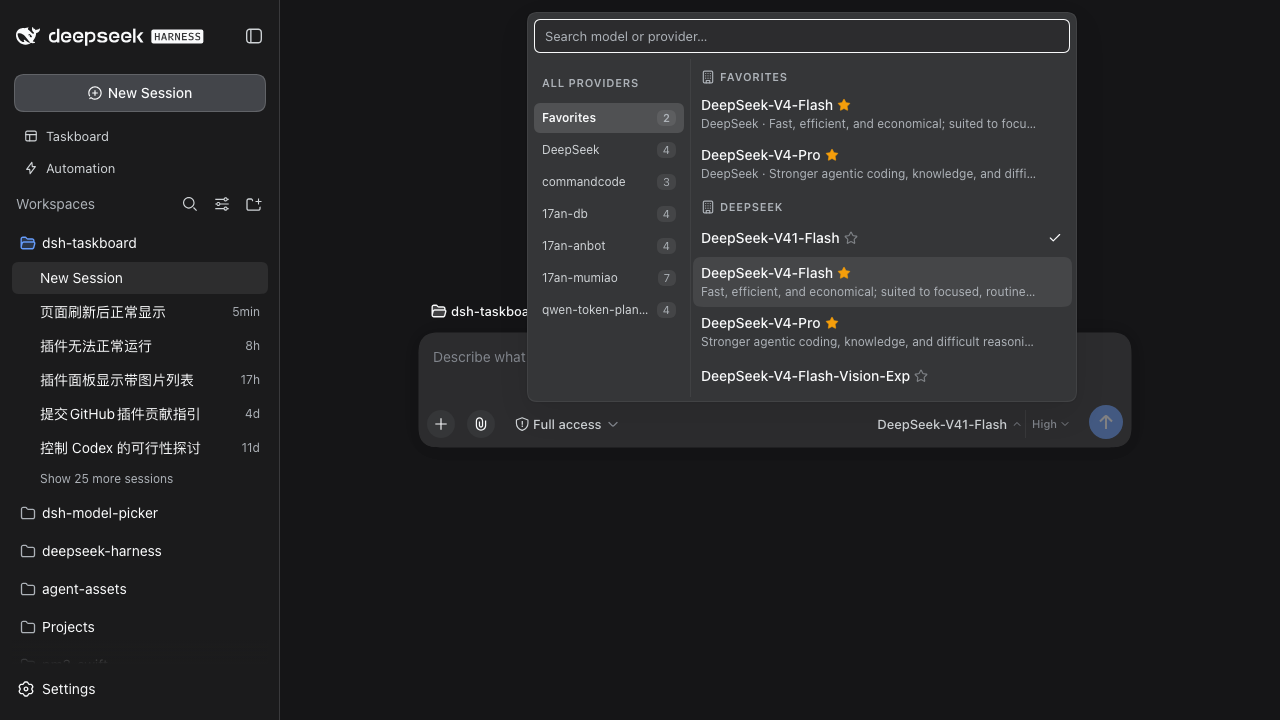
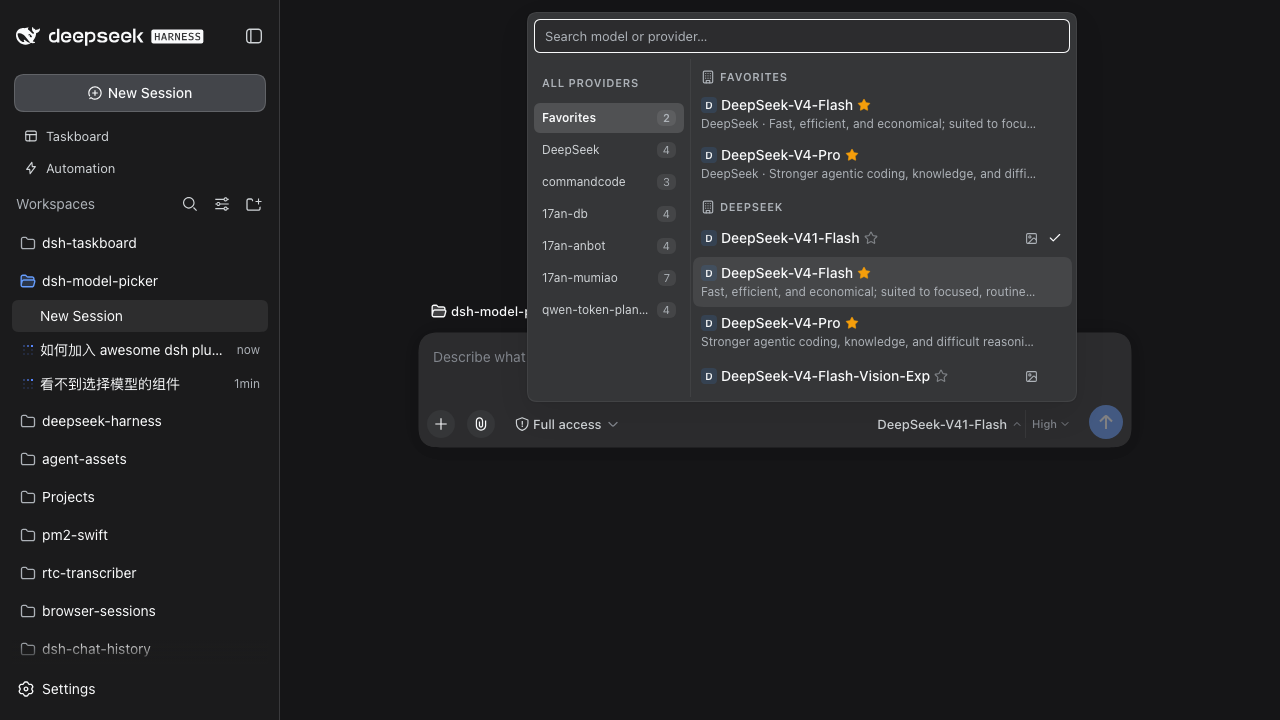
Wear the supplier's leading character ahead of each model name
The chip names the display supplier, so a row served by a folded
(modlens vision) route wears its base provider's chip rather than one of
its own — the test asserts both routes resolve to the same hue.

Each supplier also gets a fixed tint derived from its route id. The live
provider set is the reason: 17an-db, 17an-anbot and 17an-mumiao all lead
with `1`, so without the tint the three would read as one supplier. Only
the background carries the hue, keeping the glyph legible in either theme.

screenshot.png regenerated to show the chip.

diff --git a/lib/client.js b/lib/client.js
@@ -154,6 +154,10 @@ window.__ModuleLoader__.load({ id: 'dsh-model-picker', factory: (require) => {
 .dsh-mp2-starOn{color:var(--dsw-alias-state-warn-primary,currentColor);opacity:1}
 /* Name + star share one flex row so the toggle sits right after the label. */
 .dsh-mp2-nameRow{display:inline-flex;align-items:center;gap:2px}
+/* The supplier's leading character, ahead of the model name. Only the tint
+   carries the supplier's hue, so the glyph stays legible on either theme.
+   --dsh-mp2-hue is set per row; it falls back to the brand-neutral 0. */
+.dsh-mp2-avatar{flex:0 0 auto;display:inline-flex;align-items:center;justify-content:center;width:16px;height:16px;margin-right:2px;border-radius:5px;background:hsl(var(--dsh-mp2-hue,0) 55% 50% / .18);color:inherit;font-size:10px;line-height:1;font-weight:600;text-transform:uppercase}
 
 /* ───────── effort popup ───────── */
 .dsh-mp2-effortList{padding:2px;overflow-y:auto;flex:1}
@@ -273,6 +277,27 @@ window.__ModuleLoader__.load({ id: 'dsh-model-picker', factory: (require) => {
   const IMAGE_GLYPH = icon('image', 13)
 
   /**
+   * A stable hue per supplier. Two providers whose leading characters collide —
+   * `17an-db`, `17an-anbot` and `17an-mumiao` all start with `1` — would
+   * otherwise wear the same chip and read as one supplier.
+   * @param id - the supplier's route id, which is stable across sessions.
+   */
+  function providerHue(id) {
+    let hue = 0
+    for (const ch of id) hue = (hue * 31 + ch.codePointAt(0)) % 360
+    return hue
+  }
+
+  /**
+   * The supplier's leading character, for the row's avatar chip. Taken by code
+   * point so a name starting outside the BMP is not cut in half.
+   */
+  function providerInitial(name) {
+    const [first] = name.trim()
+    return first === undefined ? '?' : first.toUpperCase()
+  }
+
+  /**
    * The row's fact strip: vision glyph + context-window chip.
    *
    * Vision has two states that are NOT the same capability: a route whose
@@ -299,8 +324,11 @@ window.__ModuleLoader__.load({ id: 'dsh-model-picker', factory: (require) => {
    * The row is a `<button>`, so the star is a focusable span that stops the
    * click from reaching it — clicking a star must never also pick the model.
    */
-  function ModelRow({ group, model, detail, selected, busy, favorite, facts, bridged, onToggle, onChoose }) {
+  function ModelRow({ group, provider, model, detail, selected, busy, favorite, facts, bridged, onToggle, onChoose }) {
     const label = favorite ? t('favoriteRemove') : t('favoriteAdd')
+    // The chip names the *display* supplier, so a folded `(modlens vision)` row
+    // wears the same chip as its siblings under the base provider's heading.
+    const chip = provider ?? group
     return h('button', {
       type: 'button',
       role: 'menuitemradio',
@@ -311,6 +339,11 @@ window.__ModuleLoader__.load({ id: 'dsh-model-picker', factory: (require) => {
     },
       h('span', { className: 'dsh-mp2-optionCopy' },
         h('span', { className: 'dsh-mp2-nameRow' },
+          h('span', {
+            className: 'dsh-mp2-avatar',
+            style: { '--dsh-mp2-hue': String(providerHue(chip.id)) },
+            'aria-hidden': true,
+          }, providerInitial(chip.name)),
           h('span', { className: 'dsh-mp2-modelName' }, model.name),
           h('span', {
             className: 'dsh-mp2-star' + (favorite ? ' dsh-mp2-starOn' : ''),
@@ -563,6 +596,12 @@ window.__ModuleLoader__.load({ id: 'dsh-model-picker', factory: (require) => {
     // Search results span providers, so their rows always name the serving route.
     const rowDetail = (group, model) =>
       model.description === undefined ? group.name : group.name + ' · ' + model.description
+
+    // The display supplier a route belongs to. A folded `(modlens vision)` route
+    // has no row of its own, so its models must wear their base provider's chip
+    // rather than one of their own.
+    const displayProviderOf = (group) =>
+      providers.find((row) => row.models.some((entry) => entry.group.id === group.id)) ?? group
 
     const busy = state.status === 'selecting'
     const modelLabel = currentChoice === null ? t('triggerFallback') : currentChoice.model.name
@@ -880,6 +919,7 @@ window.__ModuleLoader__.load({ id: 'dsh-model-picker', factory: (require) => {
                           return h(ModelRow, {
                             key: group.id + '/' + model.id,
                             group,
+                            provider: displayProviderOf(group),
                             model,
                             detail: rowDetail(group, model),
                             selected,
@@ -912,6 +952,7 @@ window.__ModuleLoader__.load({ id: 'dsh-model-picker', factory: (require) => {
                                   return h(ModelRow, {
                                     key: group.id + '/' + model.id,
                                     group,
+                                    provider: displayProviderOf(group),
                                     model,
                                     detail: g.id === FAVORITES_TAB ? rowDetail(group, model) : model.description,
                                     selected,

diff --git a/README.md b/README.md
@@ -23,6 +23,20 @@ the name alone does not say where the model runs. The supplier named is the
 **display** one, so a selection on a folded `(modlens vision)` route still reads
 as its base provider — the same name the user clicked in the column.
 
+## Supplier chip
+
+Every row wears its supplier's leading character ahead of the model name — `D`
+for DeepSeek, `智` for 智谱 GLM — so a model's source is legible without reading
+the group heading back up the list.
+
+- The chip names the **display** supplier, so a row served by a folded
+  `(modlens vision)` route wears its base provider's chip rather than one of its
+  own.
+- Each supplier also gets a fixed tint derived from its route id. Without it
+  `17an-db`, `17an-anbot` and `17an-mumiao` would all show a bare `1` and read as
+  one supplier. Only the background carries the hue, so the glyph itself stays
+  legible in either theme.
+
 ## Provider folding
 
 A provider whose name is another provider's name plus a trailing parenthesized

diff --git a/README.zh-CN.md b/README.zh-CN.md
@@ -21,6 +21,17 @@
 所以在折叠过的 `(modlens vision)` 路由上选中时，显示的仍是它的基供应商——也就是你
 刚才在左栏点的那个名字。
 
+## 供应商徽标
+
+每一行都在模型名前面带上所属供应商的首个字符——DeepSeek 是 `D`，智谱 GLM 是 `智`
+——这样不用回头去看分组标题，也能知道模型来自哪里。
+
+- 徽标取的是**展示用**供应商，所以由折叠的 `(modlens vision)` 路由服务的行，戴的是
+  基供应商的徽标，而不是它自己的。
+- 每个供应商还有一个由其路由 id 推导出的固定底色。没有它的话，`17an-db`、
+  `17an-anbot`、`17an-mumiao` 都会只显示一个 `1`，看起来像同一个供应商。只有底色
+  带色相，字形本身不受影响，因此在明暗两种主题下都清晰。
+
 ## 供应商折叠
 
 若某个供应商的名字等于另一个供应商的名字加上一个括号包裹的能力后缀，它就折叠进
